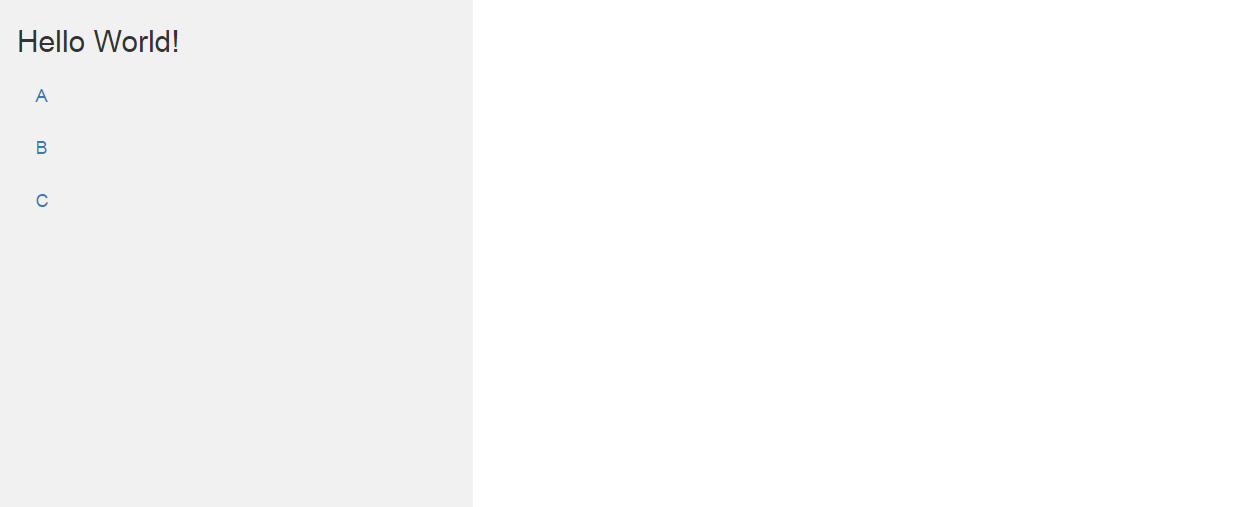
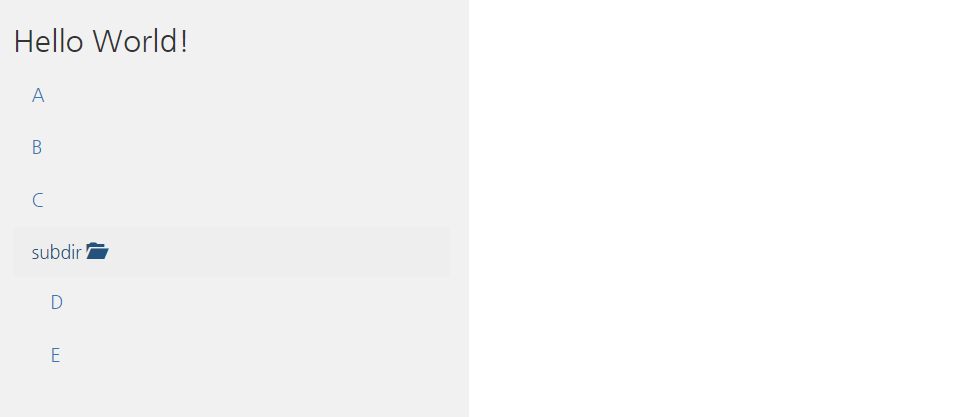
Update README

diff --git a/README.md b/README.md
@@ -1,4 +1,5 @@
 # md-docs-express
+
 md document router on express
 
 ## Usage
@@ -86,14 +87,17 @@ app.use('/docs', require('md-docs-express')(option));
 mkdir mytest
 cd mytest
 mkdir documents
+mkdir documents/subdir
 ```
 
 2. create example md files
 
 ```bash
-vi documents/A.md
-vi documents/B.md
-vi documents/C.md
+touch documents/A.md
+touch documents/B.md
+touch documents/C.md
+touch documents/subdir/D.md
+touch documents/subdir/E.md
 ```
 
 3. Create express project
